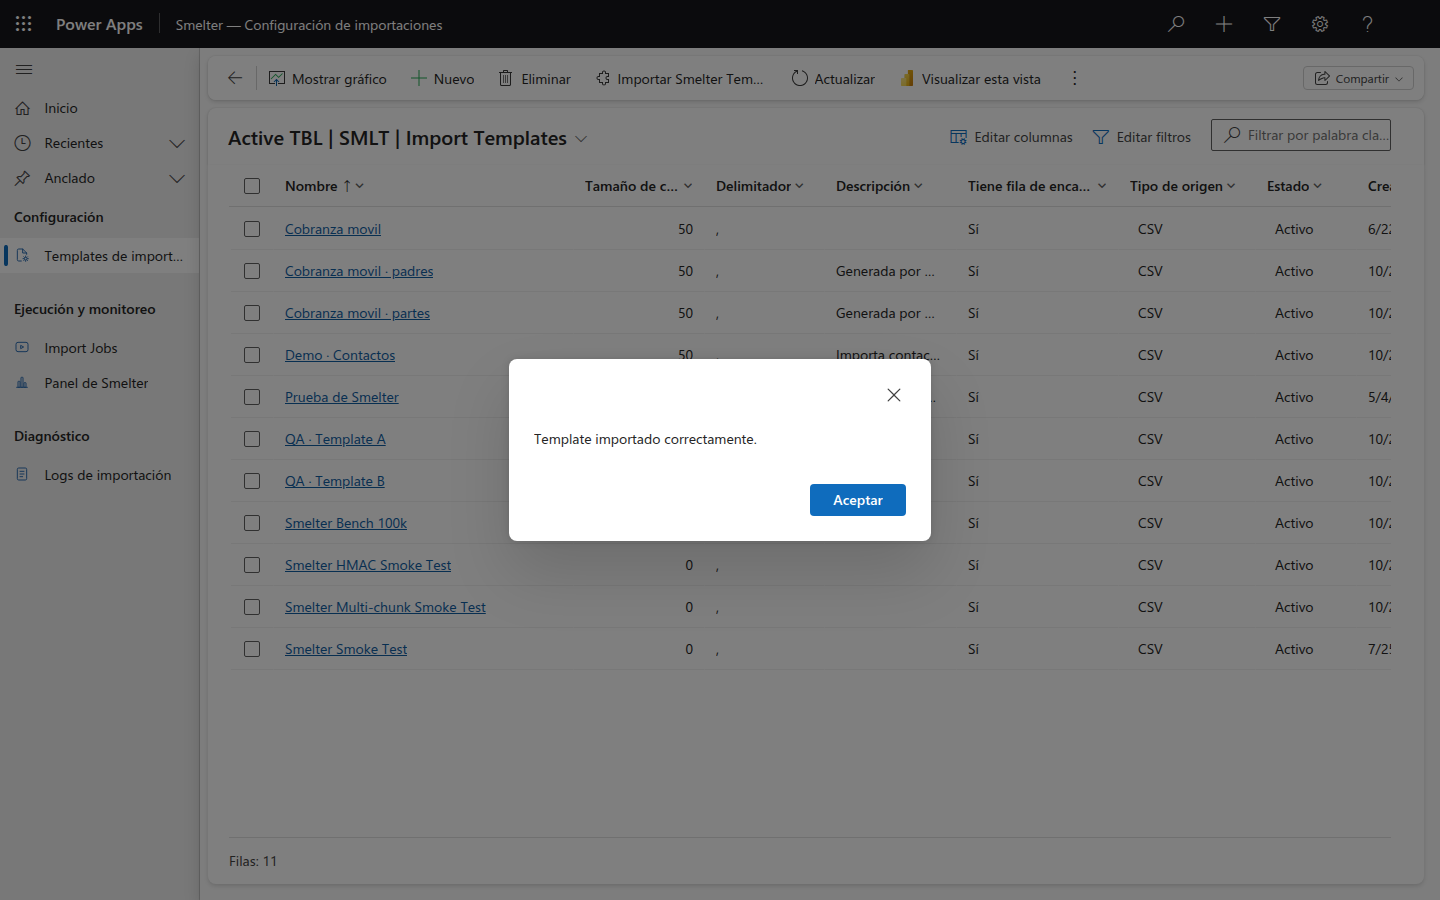
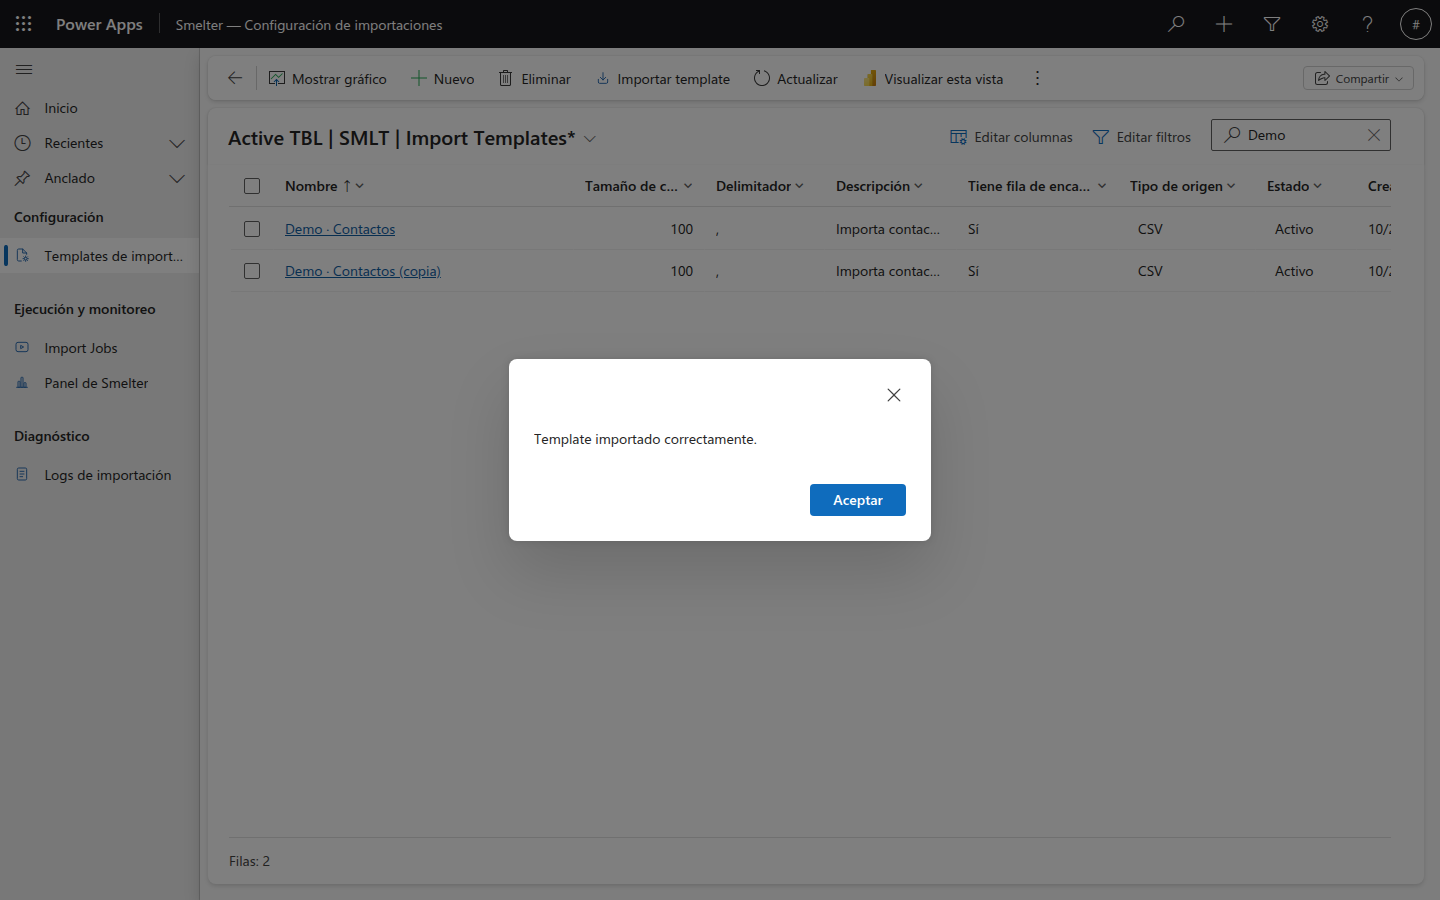
docs(usuarios): recapturas del ribbon con iconos y tooltips nuevos
Reemplaza 01, 12, 22, 27, 28 y 29 (botones Importar/Exportar template, Ejecutar y
Reintentar). Solo datos Demo: las listas van filtradas por palabra clave. Captions y alt
text actualizados.

diff --git a/docs/usuarios/02-ejecucion-y-monitoreo.md b/docs/usuarios/02-ejecucion-y-monitoreo.md
@@ -53,9 +53,9 @@ Si olvidas subir el archivo, al ejecutar la pantalla te avisa.
 1. En la barra de comandos del job, abre el menú **⋮** (**Más comandos para Import Job**).
 2. Pulsa **Ejecutar**.
 
-![Import Job con el menú de comandos abierto: aparece Ejecutar con la descripción «Pone el job en cola: el procesamiento corre en el servidor.»](img/12-job-comando-ejecutar.png)
+![Import Job con el menú de comandos abierto: aparece Ejecutar, con su ícono, y la descripción «Pone el job en cola: el procesamiento corre en el servidor.»](img/12-job-comando-ejecutar.png)
 
-*El comando **Ejecutar** está dentro del menú **⋮**. Al pasar el cursor, explica que pone el job en cola y que el procesamiento corre en el servidor.*
+*El comando **Ejecutar** está dentro del menú **⋮** y lleva un ícono de reproducir. Al pasar el cursor, un cuadro de ayuda explica que pone el job en cola y que el procesamiento corre en el servidor.*
 
 **Ejecutar** guarda primero los cambios pendientes del formulario, comprueba que el job tenga template y archivo y que puedas leer el template, y pone el job en cola. No procesa nada en tu navegador. Si falta algo, verás un cuadro de error y el job **no** cambia de estado:
 
@@ -223,9 +223,9 @@ Si el **Motivo de la falla** dice «Revisá el historial de ejecuciones del fluj
 
 Cuando un job terminó (**Completado**, **Completado con errores** o **Fallido**), puedes volver a correrlo con **Reintentar**. Está en el mismo menú **⋮** donde estaba **Ejecutar**: cuando el job ya corrió, en ese lugar aparece **Reintentar** en vez de **Ejecutar**.
 
-![Import Job Fallido con el menú ⋮ abierto: aparece Reintentar con la descripción «Vuelve a poner en cola un job terminado (Completado, Completado con errores o Fallido); se reprocesa desde cero.»](img/22-job-comando-reintentar.png)
+![Import Job Fallido con el menú ⋮ abierto: aparece Reintentar, con su ícono, y la descripción «Vuelve a poner en cola un job terminado (Completado, Completado con errores o Fallido); se reprocesa desde cero.»](img/22-job-comando-reintentar.png)
 
-*El comando **Reintentar** en el menú **⋮** de un job **Fallido**. La descripción aclara que el job se vuelve a encolar y se reprocesa **desde cero**.*
+*El comando **Reintentar**, con su ícono de actualizar, en el menú **⋮** de un job **Fallido**. El cuadro de ayuda aclara que el job se vuelve a encolar y se reprocesa **desde cero**.*
 
 **Reintentar** funciona igual que **Ejecutar**: guarda, valida y pone el job **En cola**. Cuando el servidor lo toma, **resetea** los contadores, el offset y las horas, y **limpia el Motivo de la falla**; el job se procesa desde la primera fila.
 

diff --git a/docs/usuarios/03-exportar-e-importar.md b/docs/usuarios/03-exportar-e-importar.md
@@ -26,9 +26,9 @@ Los dos botones están en la barra de comandos de la lista **Templates de import
 2. Marca la casilla de la fila del template que quieres exportar.
 3. En la barra de comandos, pulsa **Exportar template**.
 
-![Lista de Templates de importación con la fila Demo · Contactos seleccionada y la barra de comandos con Editar, Activar, Desactivar, Eliminar y Exportar template](img/27-exportar-template-seleccion.png)
+![Lista de Templates de importación, filtrada por «Demo», con la fila Demo · Contactos seleccionada y la barra de comandos con Editar, Activar, Desactivar, Eliminar y Exportar template, que muestra su ayuda: «Descarga el template seleccionado como JSON.»](img/27-exportar-template-seleccion.png)
 
-*Con una fila seleccionada, la barra de comandos suma **Exportar template**. Abajo se lee **Seleccionados: 1**.*
+*Con una fila seleccionada, la barra de comandos suma **Exportar template** (con ícono de subida). Al pasar el cursor, un cuadro de ayuda dice que descarga el template seleccionado como JSON. Abajo se lee **Seleccionados: 1**.*
 
 4. Tu navegador descarga el archivo **`smelter-template.json`**. Búscalo en tu carpeta de descargas.
 
@@ -45,11 +45,11 @@ Los dos botones están en la barra de comandos de la lista **Templates de import
 3. Se abre el selector de archivos de tu equipo, que acepta archivos `.json`. Elige el archivo exportado.
 4. Smelter importa el template. Cuando termina, aparece un cuadro con el mensaje **Template importado correctamente.** Pulsa **Aceptar**.
 
-![Cuadro de diálogo con el mensaje «Template importado correctamente.» y el botón Aceptar sobre la lista de templates](img/28-importar-template-resultado.png)
+![Cuadro de diálogo con el mensaje «Template importado correctamente.» y el botón Aceptar sobre la lista de templates, donde se ve el botón Importar template](img/28-importar-template-resultado.png)
 
 *El cuadro de resultado. Al pulsar **Aceptar**, la lista se actualiza sola.*
 
-![Lista de Templates de importación con el template nuevo Demo · Contactos (copia) en estado Borrador](img/29-templates-con-copia-importada.png)
+![Lista de Templates de importación, filtrada por «Demo», con el template Demo · Contactos (copia) en estado Borrador](img/29-templates-con-copia-importada.png)
 
 *La lista después de importar: apareció **Demo · Contactos (copia)**. En este ejemplo el archivo traía ese nombre, que no existía en el entorno, así que se creó un template nuevo; llegó con el **Estado** **Borrador**.*
 

diff --git a/docs/usuarios/01-configurador.md b/docs/usuarios/01-configurador.md
@@ -20,9 +20,9 @@ Luis,Gómez,luis@example.com
 Marta,Ruiz,marta@example.com
 ```
 
-![Lista de Templates de importación con la barra de comandos: Mostrar gráfico, Nuevo, Eliminar, Importar template, Actualizar](img/01-inicio-templates.png)
+![Lista de Templates de importación, filtrada por la palabra «Demo», con la barra de comandos: Mostrar gráfico, Nuevo, Eliminar, Importar template (con ícono), Actualizar](img/01-inicio-templates.png)
 
-*La lista de templates. El botón **Nuevo** crea un template; **Importar template** carga uno desde un archivo (ver [Exportar e importar](03-exportar-e-importar.md)). La vista se llama **Active TBL | SMLT | Import Templates**: es un nombre de sistema que no se traduce.*
+*La lista de templates (aquí filtrada con el filtro por palabra clave para mostrar solo los de ejemplo). El botón **Nuevo** crea un template; **Importar template**, que lleva un ícono de descarga, carga uno desde un archivo (ver [Exportar e importar](03-exportar-e-importar.md)). La vista se llama **Active TBL | SMLT | Import Templates**: es un nombre de sistema que no se traduce.*
 
 ## Paso 1: Crea el template
 
